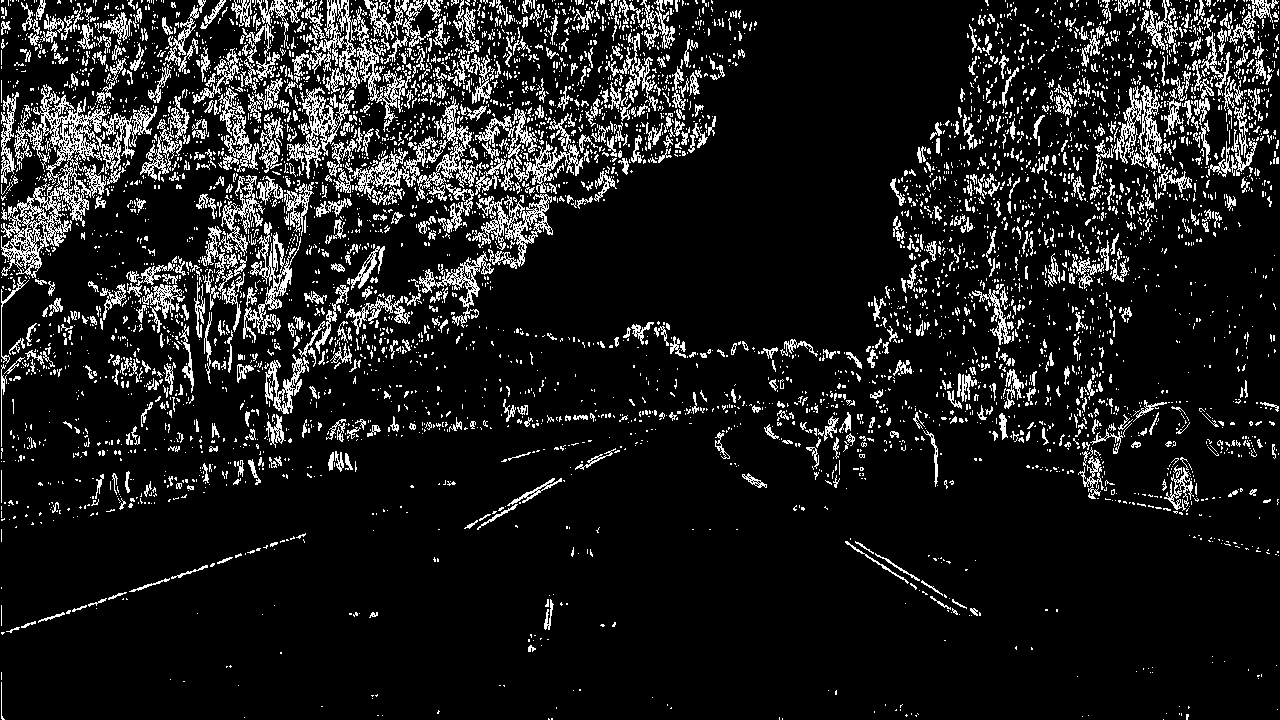
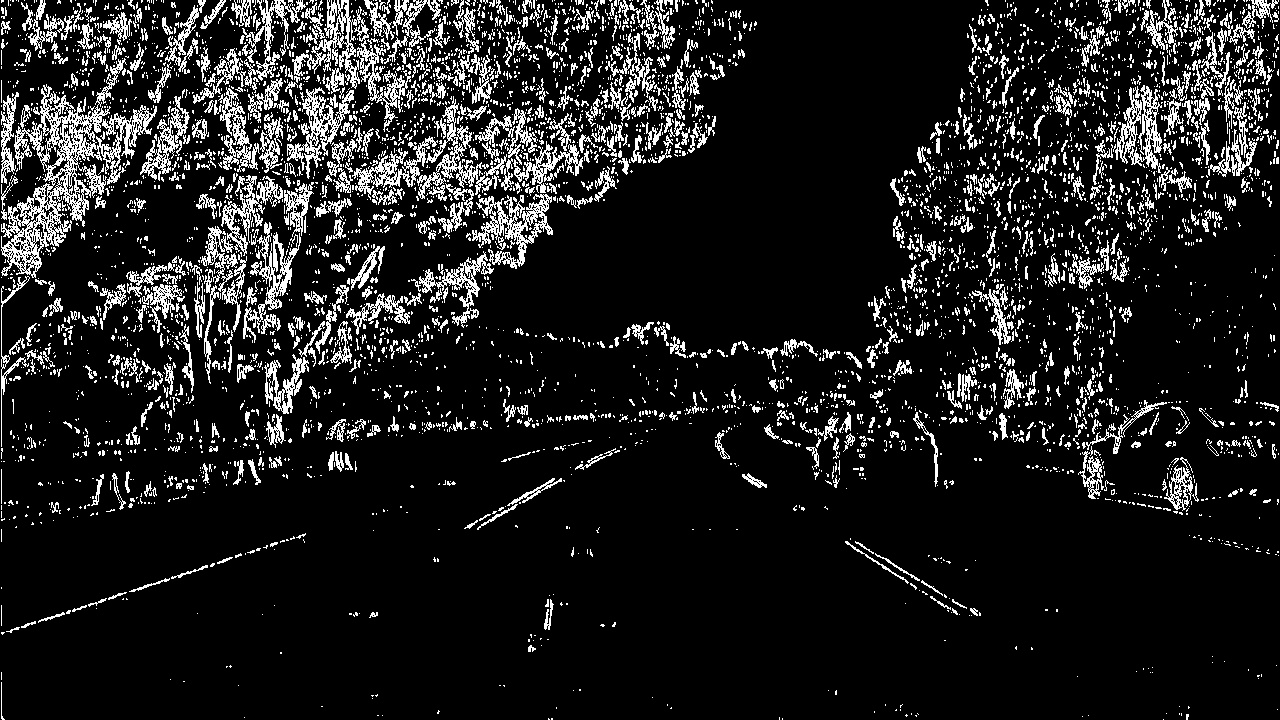
+

diff --git a/helper.py b/helper.py
@@ -55,16 +55,15 @@ def s_threshold(img, color_space='BGR'):
 		raise Exception('Color Space Error')
 
 	# get S channel
-	img = img[:, :, 2]
-	# img = cv2.cvtColor(img, cv2.COLOR_BGR2GRAY)
-	img = cv2.blur(img, (3, 3))
 
-	# cv2.imshow('', img)
-	# cv2.waitKey(10000)
+	img = img[:, :, 2]
+	img = cv2.medianBlur(img, 3)
 
 	thresh = (170, 255)
 	binary = np.zeros_like(img)
 	binary[(img > thresh[0]) & (img <= thresh[1])] = 255
+	# cv2.imshow('', binary)
+	# cv2.waitKey(10000)
 	return binary
 
 
@@ -88,14 +87,13 @@ def gradient_threshold(img, color_space='BGR'):
 	abs_sobel_x = np.absolute(sobel_x)  # Absolute x derivative to accentuate lines away from horizontal
 	scaled_sobel = np.uint8(255 * abs_sobel_x / np.max(abs_sobel_x))
 
-	# cv2.imshow('', scaled_sobel)
-	# cv2.waitKey(10000)
-
 	# Threshold x gradient
 	thresh_min = 20
-	thresh_max = 80
+	thresh_max = 100
 	sobel_x_binary = np.zeros_like(scaled_sobel)
 	sobel_x_binary[(scaled_sobel >= thresh_min) & (scaled_sobel <= thresh_max)] = 255
+	# cv2.imshow('', sobel_x_binary)
+	# cv2.waitKey(10000)
 	return sobel_x_binary
 
 
@@ -107,19 +105,18 @@ def combined_threshold(img, color_space='BGR'):
 	sober_x_binary = gradient_threshold(img, color_space)
 	# Stack each channel to view their individual contributions in green and blue respectively
 	# This returns a stack of the two binary images, whose components you can see as different colors
-	color_binary = np.dstack((np.zeros_like(sober_x_binary), sober_x_binary, s_binary))
-	cv2.imshow('', color_binary)
-	cv2.waitKey(10000)
+	# color_binary = np.dstack((np.zeros_like(sober_x_binary), sober_x_binary, s_binary))
+	# cv2.imshow('', color_binary)
+	# cv2.waitKey(10000)
 
 	# Combine the two binary thresholds
 	combined_binary = np.zeros_like(sober_x_binary)
 	combined_binary[(s_binary == 255) | (sober_x_binary == 255)] = 255
+	# cv2.imshow('', combined_binary)
+	# cv2.waitKey(10000)
 	return combined_binary
 
 
-def perspective_transform(img):
-	# first I need to find 4 points
-	pass
 def region_of_interest(img, vertices):
 	"""
 	Applies an image mask.

diff --git a/test.py b/test.py
@@ -75,6 +75,32 @@ def test_perspective_transform():
 	a = cv2.imread('output_images/calibration/test6.jpg')
 	a = t.transform(a)
 	cv2.imwrite('output_images/transform/test6.jpg', a)
+
+	###
+	a = cv2.imread('output_images/threshold/combined_threshold_straight_lines1.jpg')
+	a = t.transform(a)
+	cv2.imwrite('output_images/transform/combined_threshold_straight_lines1.jpg', a)
+	a = cv2.imread('output_images/threshold/combined_threshold_straight_lines2.jpg')
+	a = t.transform(a)
+	cv2.imwrite('output_images/transform/combined_threshold_straight_lines2.jpg', a)
+	a = cv2.imread('output_images/threshold/combined_threshold_test1.jpg')
+	a = t.transform(a)
+	cv2.imwrite('output_images/transform/combined_threshold_test1.jpg', a)
+	a = cv2.imread('output_images/threshold/combined_threshold_test2.jpg')
+	a = t.transform(a)
+	cv2.imwrite('output_images/transform/combined_threshold_test2.jpg', a)
+	a = cv2.imread('output_images/threshold/combined_threshold_test3.jpg')
+	a = t.transform(a)
+	cv2.imwrite('output_images/transform/combined_threshold_test3.jpg', a)
+	a = cv2.imread('output_images/threshold/combined_threshold_test4.jpg')
+	a = t.transform(a)
+	cv2.imwrite('output_images/transform/combined_threshold_test4.jpg', a)
+	a = cv2.imread('output_images/threshold/combined_threshold_test5.jpg')
+	a = t.transform(a)
+	cv2.imwrite('output_images/transform/combined_threshold_test5.jpg', a)
+	a = cv2.imread('output_images/threshold/combined_threshold_test6.jpg')
+	a = t.transform(a)
+	cv2.imwrite('output_images/transform/combined_threshold_test6.jpg', a)
 	# t.test()
 
 if __name__ == '__main__':
@@ -82,4 +108,4 @@ if __name__ == '__main__':
 	# test_s_threshold()
 	# test_gradient_threshold()
 	# test_combined_threshold()
-	test_perspective_transform()
+	# test_perspective_transform()
